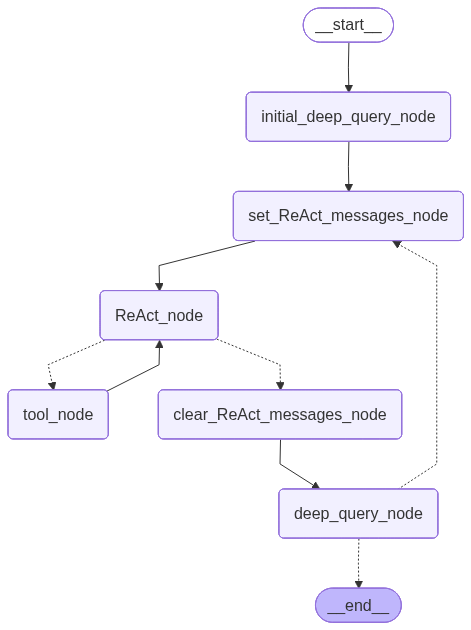
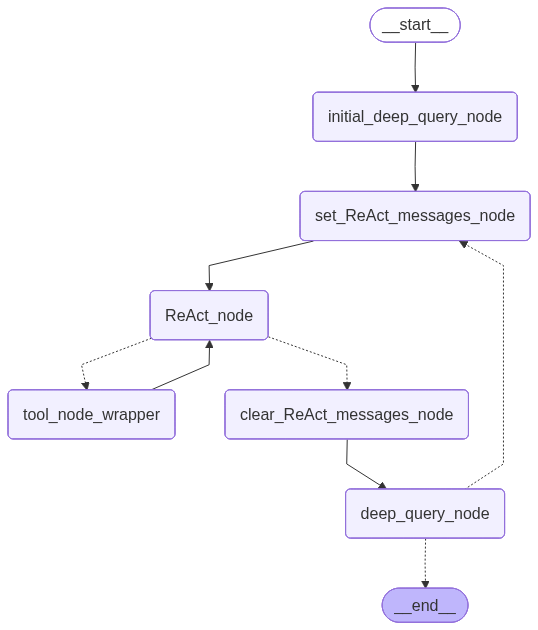
.

diff --git a/graphs/deep_queries_processes_agent.py b/graphs/deep_queries_processes_agent.py
@@ -4,7 +4,7 @@ from sqlalchemy import create_engine
 
 from langchain_ollama import ChatOllama
 from langchain_google_genai.chat_models import ChatGoogleGenerativeAI
-from langchain_core.messages import BaseMessage, SystemMessage, HumanMessage
+from langchain_core.messages import BaseMessage, SystemMessage, HumanMessage, ToolMessage
 from langchain_core.output_parsers import JsonOutputParser
 from langchain_community.utilities.sql_database import SQLDatabase
 from langchain_community.agent_toolkits.sql.toolkit import SQLDatabaseToolkit
@@ -50,15 +50,14 @@ class State(TypedDict):
     response_query : str | None
 
 
-tool_node = ToolNode(tools)
-
 
 def initial_deep_query_node(state : State) -> State:
     initial_message = state["messages"]
     response = llm.invoke(initial_message)
-    # print("--"*5 + "initial_node")
-    # print(response.content)
-    # print("\n\n")
+    print("--"*5 + " initial_node")
+    print("query inicial:\n")
+    response.pretty_print()
+    print("\n\n"*2)
     return {"messages":response}
 
 
@@ -67,9 +66,10 @@ def set_ReAct_messages_node(state : State) -> State:
     json = parser.parse(query_ai_message.content)
     query = json["query"]
     messages_react = [SystemMessage(content=system_prompt), HumanMessage(content=query)]
-    # print("--"*5 + "set_ReAct_messages_node")
-    # print(messages_react)
-    # print("\n\n")
+    print("--"*5 + " set_ReAct_messages_node")
+    for message in messages_react:
+        message.pretty_print()
+    print("\n\n"*2)
     return {"messages_react":messages_react}
     
 
@@ -78,19 +78,43 @@ def ReAct_node(state : State) -> State:
     messages_react = state['messages_react']
     response = llm_with_tools.invoke(messages_react)
     response_query = response.content
-    # print("--"*5 + "ReAct_node")
-    # print(type(response_query))
-    # print("\n\n")
+    print("--"*5 + " ReAct_node\n")
+    print(f"type response_query: {type(response_query)}")
+    print("\n\n")
+    print("Messages ReAct:\n")
+    for message in messages_react:
+        message.pretty_print()
+    print("\n\n"*2)
     return {"messages_react":response, "response_query":response_query}
 
 
 
 
-def should_continue_with_sql(state : State) -> Literal["tool_node", "clear_ReAct_messages_node"]: # type: ignore
+def should_continue_with_sql(state : State) -> Literal["tool_node_wrapper", "clear_ReAct_messages_node"]: # type: ignore
     last_message = state['messages_react'][-1]
     if last_message.tool_calls:
-        return "tool_node"
+        return "tool_node_wrapper"
     return "clear_ReAct_messages_node"
+
+
+
+tool_node = ToolNode(tools)
+
+def tool_node_wrapper(state: State) -> State:
+    print("--"*5 + " tool_node_wrapper\n")
+    # Invoca el ToolNode con el estado actual
+    result = tool_node(state)
+    print(f"result: {result}")
+    print("\n\n")
+    # result es un dict con {"messages": [ToolMessage, ...]}
+    new_tool_messages = result.get("messages", [])
+    # Combina los mensajes previos con los nuevos ToolMessages
+    updated_messages_react = list(state["messages_react"]) + new_tool_messages
+    print("messages_react:\n")
+    for message in updated_messages_react:
+        message.pretty_print()
+    print("\n\n"*2)
+    return {"messages_react": updated_messages_react}
 
 
 
@@ -98,6 +122,11 @@ def clear_ReAct_messages_node(state : State) -> State:
     messages = state["messages_react"]
     response_query = state["response_query"]
     response_query_human_message = HumanMessage(content=response_query)
+    print("--"*5 + " clear_ReAct_messages_node\n")
+    print("messages_react:\n")
+    for message in messages:
+        message.pretty_print()
+    print("\n\n"*2)
     # Crear una lista de RemoveMessage para eliminar todos los mensajes actuales
     return {"messages_react": [RemoveMessage(id=m.id) for m in messages], "messages":response_query_human_message}
 
@@ -106,6 +135,11 @@ def clear_ReAct_messages_node(state : State) -> State:
 def deep_query_node(state : State) -> State:
     messages = state["messages"]
     response = llm.invoke(messages)
+    print("--"*5 + " clear_ReAct_messages_node\n")
+    lista = state["messages"] + [response]
+    for message in lista:
+        message.pretty_print()
+        print("\n\n"*2)
     return {"messages":response}
 
 
@@ -123,7 +157,7 @@ builder = StateGraph(State)
 builder.add_node("initial_deep_query_node", initial_deep_query_node)
 builder.add_node("set_ReAct_messages_node", set_ReAct_messages_node)
 builder.add_node("ReAct_node", ReAct_node)
-builder.add_node("tool_node", tool_node)
+builder.add_node("tool_node_wrapper", tool_node_wrapper)
 builder.add_node("clear_ReAct_messages_node", clear_ReAct_messages_node)
 builder.add_node("deep_query_node", deep_query_node)
 
@@ -131,13 +165,13 @@ builder.add_edge(START, "initial_deep_query_node")
 builder.add_edge("initial_deep_query_node", "set_ReAct_messages_node")
 builder.add_edge("set_ReAct_messages_node", "ReAct_node")
 builder.add_conditional_edges("ReAct_node", should_continue_with_sql)
-builder.add_edge("tool_node", "ReAct_node")
+builder.add_edge("tool_node_wrapper", "ReAct_node")
 builder.add_edge("clear_ReAct_messages_node", "deep_query_node")
 builder.add_conditional_edges("deep_query_node", should_end)
 
 deep_queries_processes_agent = builder.compile()
 
 
-# image_data = deep_queries_processes_agent.get_graph().draw_mermaid_png()
-# with open("deep_queries_processes_agent.png", "wb") as image_file:
-#     image_file.write(image_data)
+image_data = deep_queries_processes_agent.get_graph().draw_mermaid_png()
+with open("deep_queries_processes_agent.png", "wb") as image_file:
+    image_file.write(image_data)
